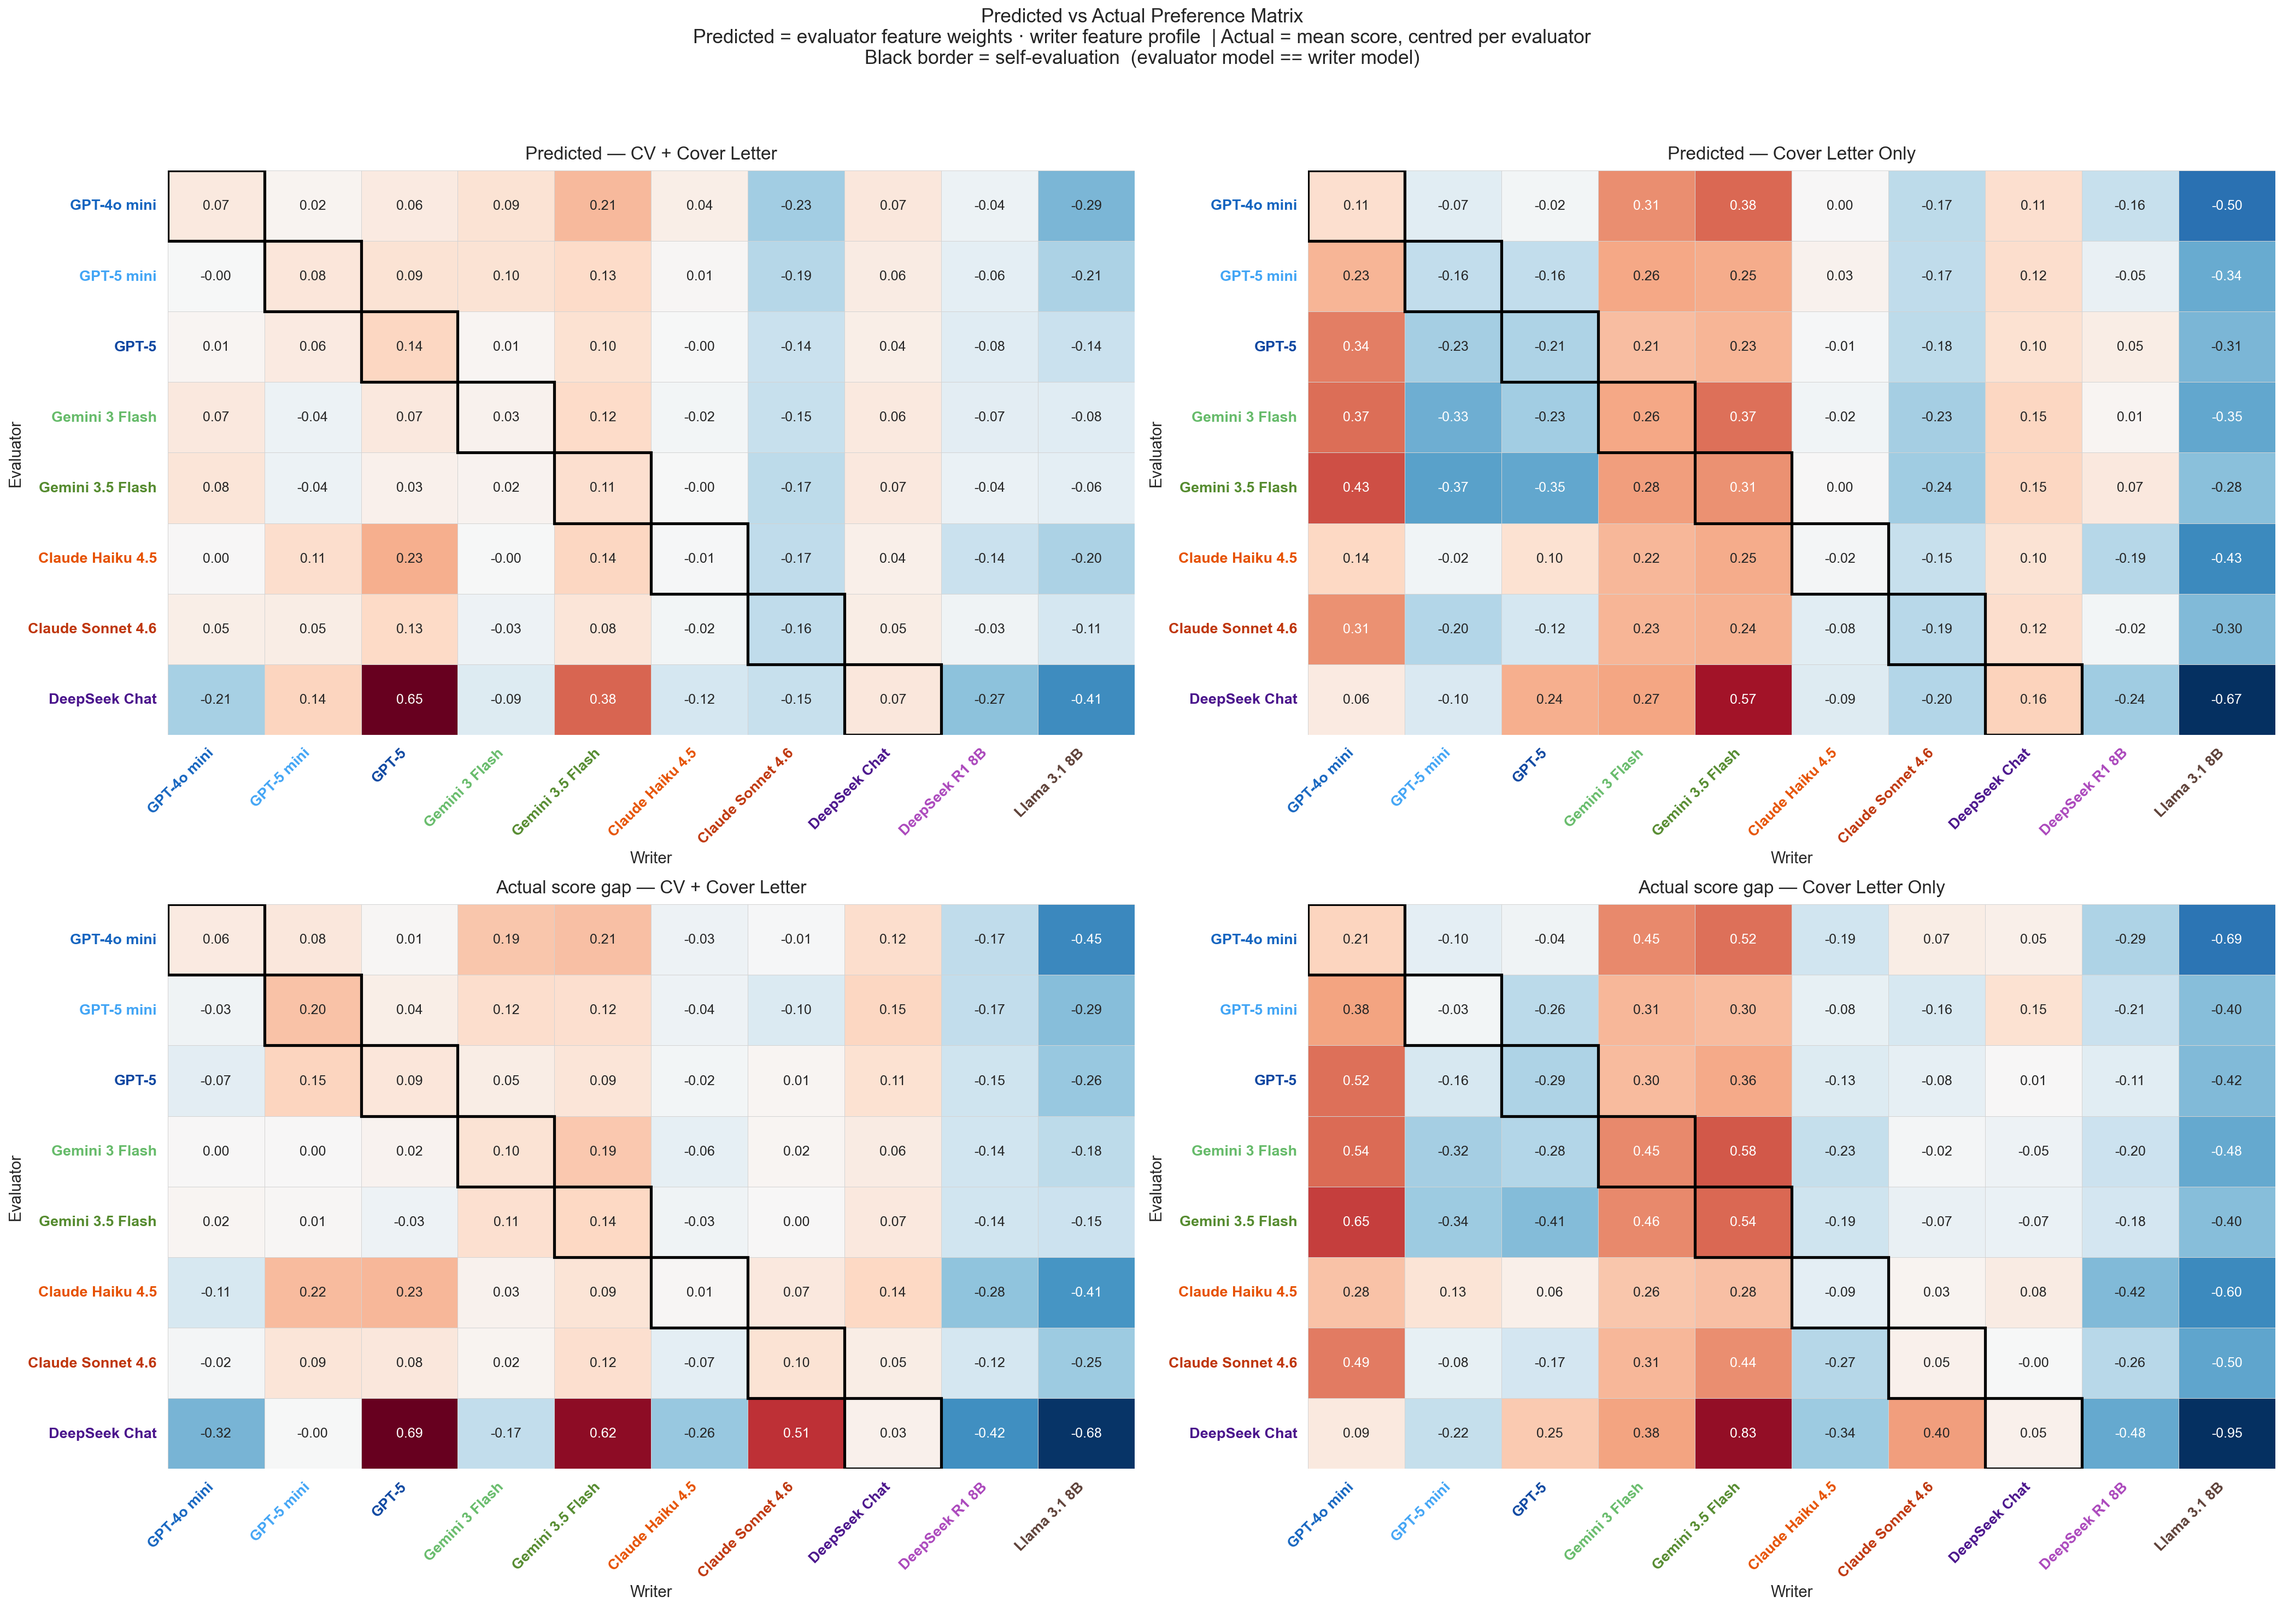
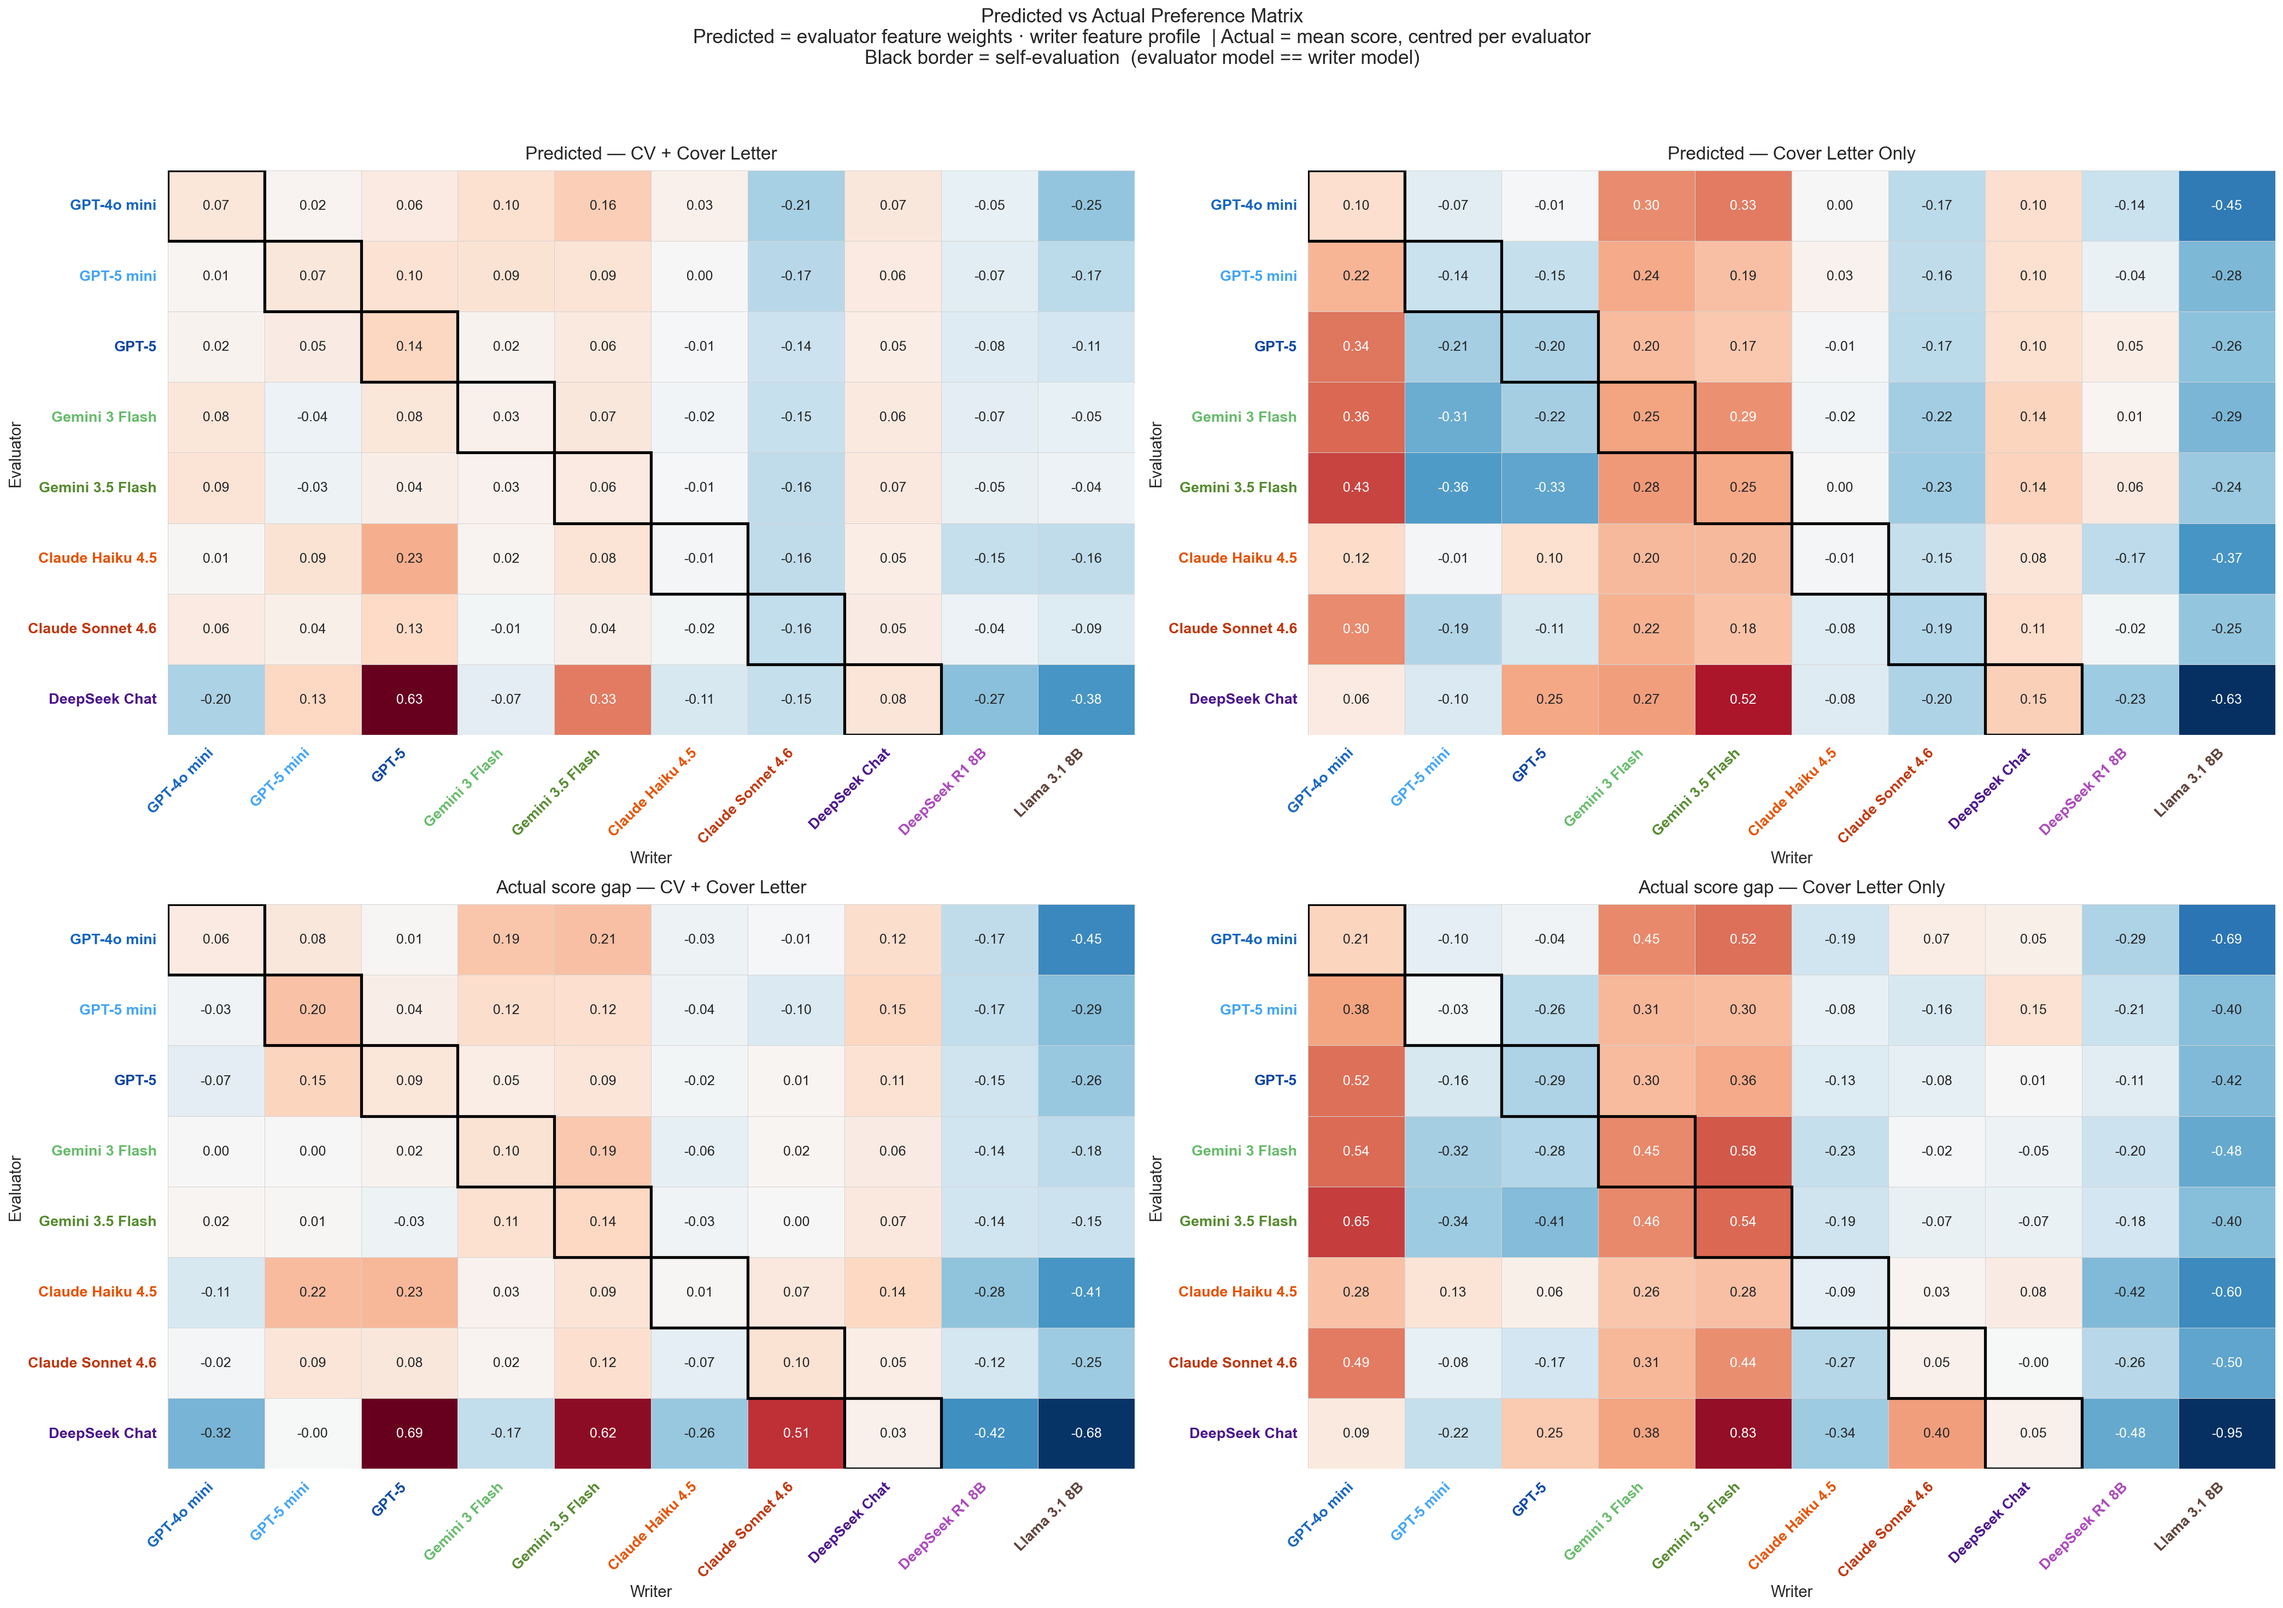
Switch feature regression from OLS to Ridge (RidgeCV, LOO-CV alpha)
OLS blew up emotion coefficients due to multicollinearity (softmax features sum
to 1). Ridge with within-job demeaning gives stable, comparable coefficients
across all feature groups on a shared colour scale.

Changed region(s): [[0.7158, 0.1237, 0.8092, 0.3092], [0.9337, 0.2164, 1.0, 0.3092], [0.2179, 0.0928, 0.3112, 0.1546]]

diff --git a/plot_feature_regression.py b/plot_feature_regression.py
@@ -18,6 +18,7 @@ import pandas as pd
 import matplotlib.pyplot as plt
 import seaborn as sns
 from scipy import stats as sst
+from sklearn.linear_model import RidgeCV
 
 from aggregate_plots import (
     WRITER_COLORS, MODEL_DISPLAY, DISPLAY_COLORS,
@@ -69,11 +70,12 @@ FEATURE_GROUPS_MAP = {col: grp for col, _, grp in FEATURE_GROUPS}
 
 def fit_regressions(merged, eval_type):
     """
-    For each evaluator: OLS(Score ~ standardised_features + job_dummies).
-    Features are standardised globally (same scale across evaluators).
+    For each evaluator: Ridge(Score_res ~ std_features_res), where _res means
+    within-job demeaned (partials out job fixed effects without including job
+    dummies in the Ridge penalty).  RidgeCV picks alpha via leave-one-out CV.
 
     Returns:
-      coef_df    : DataFrame (raw evaluator names × FEATURE_COLS), OLS β
+      coef_df    : DataFrame (raw evaluator names × FEATURE_COLS), Ridge β
       feat_means : Series used to standardise writer profiles consistently
       feat_stds  : Series used to standardise writer profiles consistently
     """
@@ -83,23 +85,26 @@ def fit_regressions(merged, eval_type):
     feat_stds  = sub[FEATURE_COLS].std().replace(0, 1)
     sub[FEATURE_COLS] = (sub[FEATURE_COLS] - feat_means) / feat_stds
 
+    alphas = np.logspace(-2, 3, 40)
     coef_rows = {}
+
     for evaluator in UNIQUE_EVALUATORS:
-        ev = sub[sub["Evaluator"] == evaluator].dropna(subset=FEATURE_COLS + ["Score"])
+        ev = sub[sub["Evaluator"] == evaluator].dropna(
+            subset=FEATURE_COLS + ["Score"]).copy()
         if len(ev) < 30:
             coef_rows[evaluator] = {c: np.nan for c in FEATURE_COLS}
             continue
 
-        job_dummies = pd.get_dummies(ev["Job_ID"], drop_first=True).astype(float)
-        X = np.column_stack([
-            ev[FEATURE_COLS].values,
-            job_dummies.reindex(ev.index).fillna(0).values,
-            np.ones(len(ev)),
-        ])
+        # partial out job fixed effects via within-job demeaning
+        for col in FEATURE_COLS + ["Score"]:
+            ev[col] = ev[col] - ev.groupby("Job_ID")[col].transform("mean")
+
+        X = ev[FEATURE_COLS].values
         y = ev["Score"].values
 
-        coeffs, _, _, _ = np.linalg.lstsq(X, y, rcond=None)
-        coef_rows[evaluator] = dict(zip(FEATURE_COLS, coeffs[:len(FEATURE_COLS)]))
+        ridge = RidgeCV(alphas=alphas, fit_intercept=False)
+        ridge.fit(X, y)
+        coef_rows[evaluator] = dict(zip(FEATURE_COLS, ridge.coef_))
 
     coef_df = pd.DataFrame(coef_rows).T   # evaluators × features
     return coef_df, feat_means, feat_stds
@@ -184,6 +189,10 @@ def _draw_coef_panel(ax, coef_disp, title, show_ylabels):
     """
     coef_disp : DataFrame (display evaluator names × FEATURE_COLS).
     Transposed to (features × evaluators) for the heatmap.
+
+    Color encodes per-row z-score (which evaluators weight this feature more/less
+    than the average evaluator), so features on very different scales all read
+    clearly. Annotations show the raw OLS β.
     """
     mat = coef_disp[FEATURE_COLS].T.copy()
     mat.index = [FEATURE_LABELS[c] for c in FEATURE_COLS]
@@ -221,15 +230,16 @@ def plot_coef_heatmap(coef_by_type):
     for ax, (eval_type, title) in zip(axes, EVAL_TYPES.items()):
         _draw_coef_panel(ax, coef_by_type[eval_type], title, ax is axes[0])
 
-    sm = plt.cm.ScalarMappable(cmap="RdBu_r", norm=plt.Normalize(vmin=-1.5, vmax=1.5))
+    sm = plt.cm.ScalarMappable(cmap="RdBu_r", norm=plt.Normalize(vmin=-2.5, vmax=2.5))
     sm.set_array([])
     cbar = fig.colorbar(sm, ax=axes, orientation="vertical", fraction=0.015, pad=0.02)
-    cbar.set_label("OLS β  (standardised features)", fontsize=fs + 2)
+    cbar.set_label("Ridge β  (standardised features)", fontsize=fs + 2)
     cbar.ax.tick_params(labelsize=fs)
 
     fig.suptitle(
-        "Feature Weights per Evaluator  —  OLS with Job Fixed Effects\n"
-        "β = change in score per 1 SD increase in feature, controlling for job and other features",
+        "Feature Weights per Evaluator  —  Ridge Regression with Job Fixed Effects\n"
+        "β = change in score per 1 SD increase in feature  |  "
+        "Job effects partialled out via within-job demeaning  |  α chosen by LOO-CV",
         fontsize=fs + 6)
     fig.tight_layout(rect=[0.05, 0, 0.97, 0.96])
     out = os.path.join(OUT_DIR, "regression_coef_heatmap.png")
